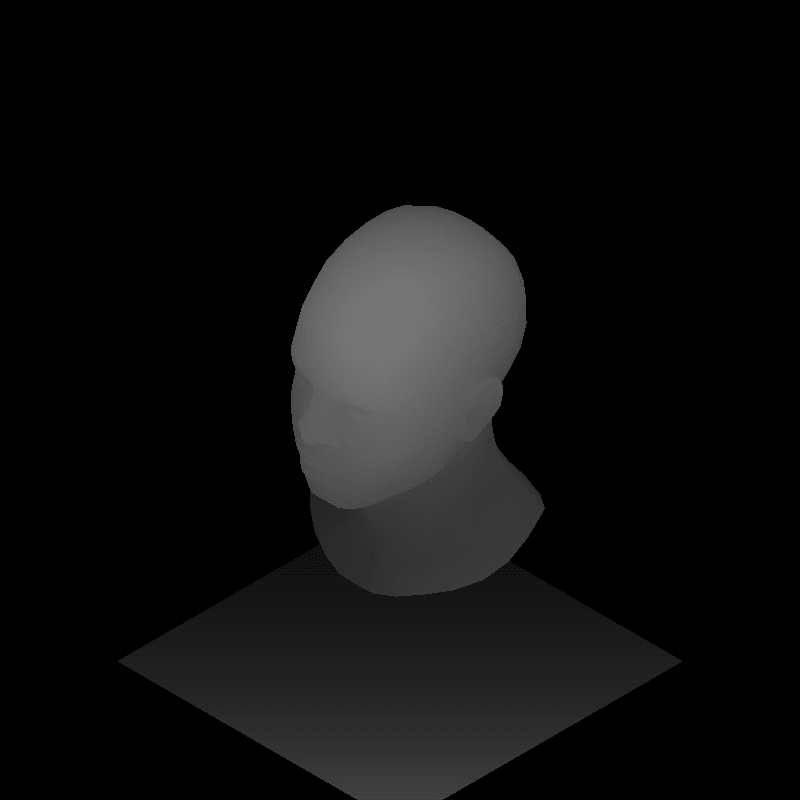
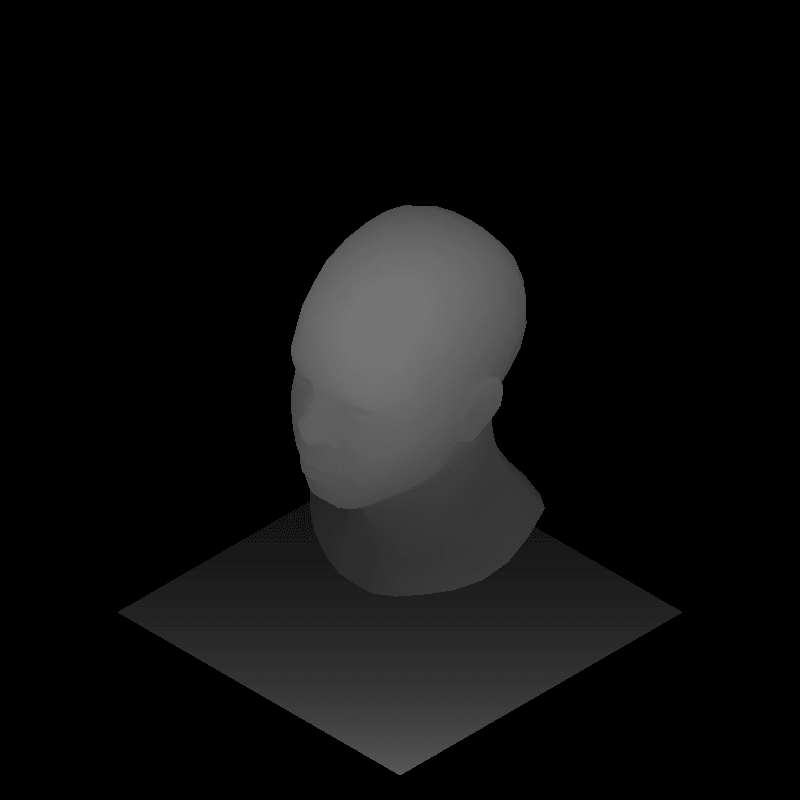
Fix: update the PNG images and README.md for new feature-PCF

Changed region(s): [[0.1562, 0.625, 0.8438, 1.0]]

diff --git a/README.md b/README.md
@@ -15,7 +15,7 @@ This is a baby rasterizer based on [ssloy's tinyrenderer](https://github.com/ssl
 - Blinn-Phong lighting model
 - Phong shading
 - Tangent space normal mapping
-- Shadow mapping (incomplete, shadow texture is not ensured to cover all the frustum yet)
+- Shadow mapping + PCF (incomplete, shadow texture is not ensured to cover all the frustum yet)
 - MSAA
 
 ## References
